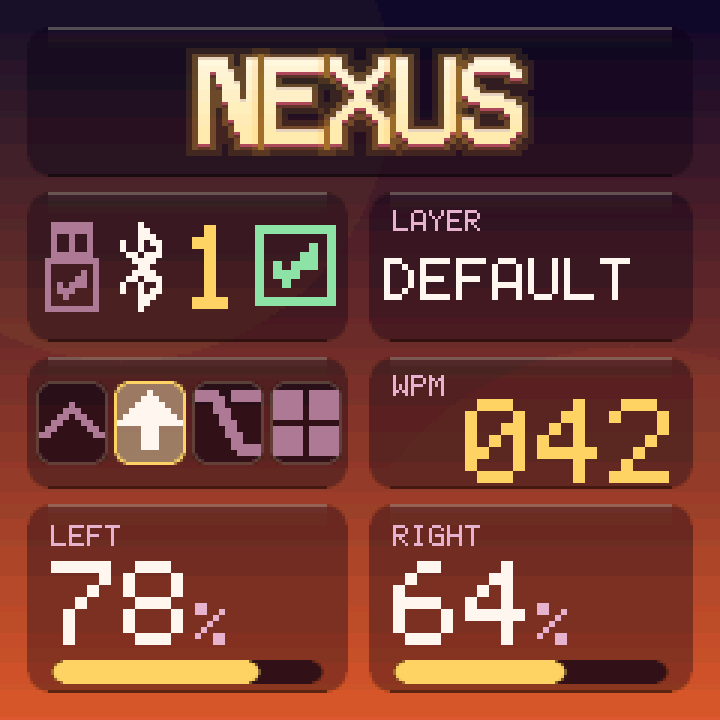
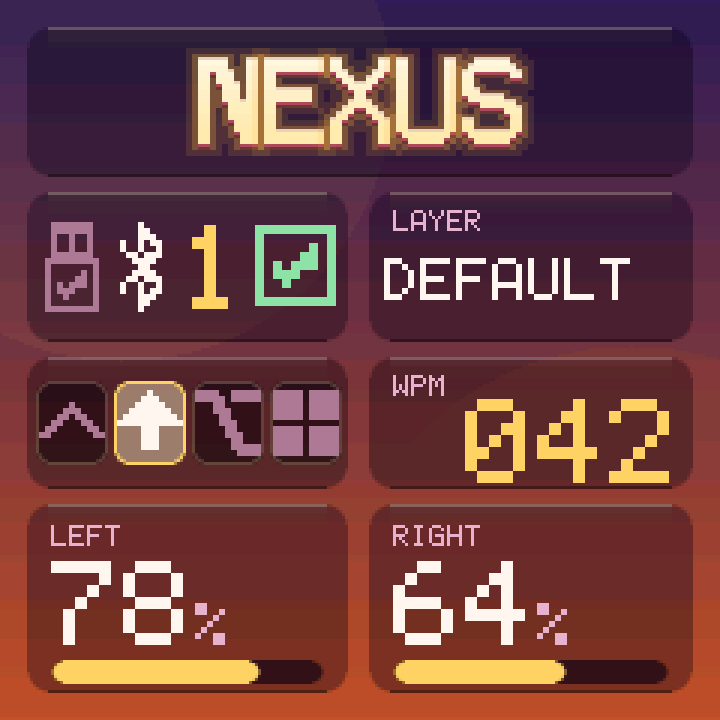
fix(N-07): Sunset's panes read the same at the top as at the bottom
The sky ran from near-black violet to bright orange under one uniform dark
glass, so the same card read as two materials depending on where it sat: the
header pane was 2 luma off its ground and vanished, the battery panes were 38
off theirs and shouted.

The ticket offered two fixes. Scaling pane opacity by y would reach into
nexus_draw_card(), which every theme shares, for one theme's benefit. And no
opacity fixes the top anyway: the tint and the top of the sky are both dark,
so there is nothing for more of it to contrast against. The ground has to meet
the glass instead - a lighter violet up top, a calmer orange below. It is
still a sunset, and every pane now sits between 10 and 34 luma off its ground
rather than between 2 and 38.

That clears the rule N-06 added, so Sunset comes off the todo list and the
check is complete for all seven themes. Only home-sunset.png and
theme-sunset.png changed.

diff --git a/src/ui/theme.c b/src/ui/theme.c
@@ -158,7 +158,20 @@ static const struct nexus_theme themes[] = {
 		 * the same panel colour reads violet at the top of the screen
 		 * and amber at the bottom, because it actually is. */
 		.name = "SUNSET",
-		.bg_top = NEXUS_C(0x170B2Cu), .bg_bot = NEXUS_C(0xD95A32u),
+		/*
+		 * The sky was near-black at the top and bright orange at the
+		 * bottom, under one uniform dark glass. So the header pane
+		 * vanished (2 luma off the ground) while the battery panes
+		 * shouted (38 off it) - the same card reading as two
+		 * different materials depending on where it sat.
+		 *
+		 * No opacity fixes the top, because the tint and the top of
+		 * the sky are both dark and there is nothing to contrast. The
+		 * ground has to meet the glass instead: a lighter violet up
+		 * top and a calmer orange below, which is still a sunset and
+		 * puts every pane between 10 and 34 luma off its ground.
+		 */
+		.bg_top = NEXUS_C(0x351C5Cu), .bg_bot = NEXUS_C(0xC4532Fu),
 		.glow_a = NEXUS_C(0xFFB450u), .glow_b = NEXUS_C(0xFF783Cu),
 		.glow_alpha = 16,
 		.panel = NEXUS_C(0x140622u), .panel_alpha = 88,

diff --git a/tests/ui/test_theme.py b/tests/ui/test_theme.py
@@ -91,13 +91,7 @@ def main():
     # 8 is the floor because it is what the five themes nobody complained
     # about already clear - the rule is measured from them, not invented.
     FLOOR = 8
-    # Sunset is N-07, its own ticket. Listed here rather than skipped
-    # silently so the rule is visibly incomplete until it is not.
-    KNOWN = {'SUNSET'}
     for t in ts:
-        if t['name'] in KNOWN:
-            print('  todo  %-9s is ticket N-07' % t['name'])
-            continue
         top = lum(over(t['panel'], t['bg_top'], t['panel_alpha'])) \
             - lum(t['bg_top'])
         bot = lum(over(t['panel'], t['bg_bot'], t['panel_alpha'])) \
